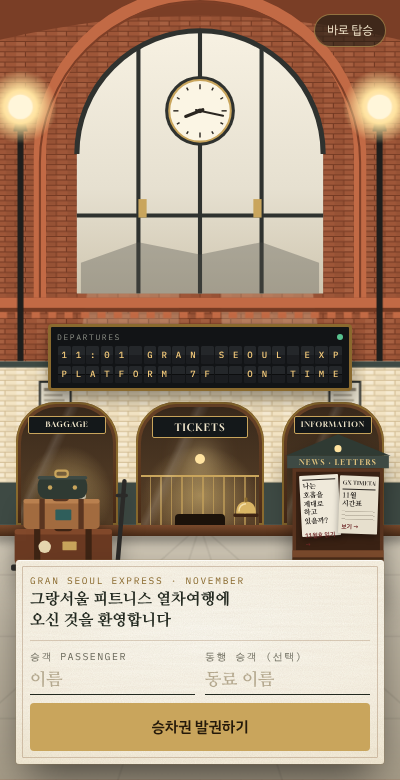
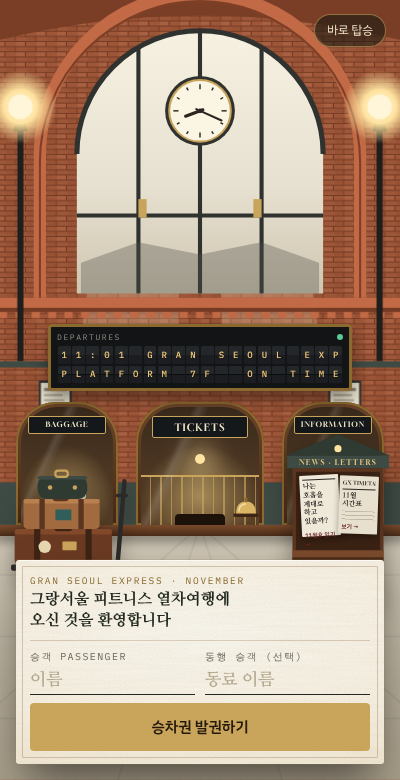
Match booth wall to upper red brick
Claude-Session: https://claude.ai/code/session_01944gX2svfc1a8cfr9gyaLp

diff --git a/index.html b/index.html
@@ -768,7 +768,6 @@ h1,h2,h3,h4,.st-card h2,.gate b{text-wrap:balance}
       <svg class="hall2" viewBox="0 0 400 760" preserveAspectRatio="xMidYMax slice" aria-hidden="true">
         <defs>
           <pattern id="brk" width="20" height="10" patternUnits="userSpaceOnUse"><rect width="20" height="10" fill="#9E5638"/><path d="M0 .5H20 M0 5.5H20 M10 0V5 M0 5V10 M20 5V10" stroke="#743A23" stroke-width="1"/><rect x="1" y="1" width="8" height="3.6" fill="rgba(255,200,150,.09)"/><rect x="11" y="6" width="8" height="3.6" fill="rgba(0,0,0,.05)"/></pattern>
-          <pattern id="brkIv" width="20" height="10" patternUnits="userSpaceOnUse"><rect width="20" height="10" fill="#F3E4C4"/><path d="M0 .5H20 M0 5.5H20 M10 0V5 M0 5V10 M20 5V10" stroke="#D2BC93" stroke-width="1"/><rect x="1" y="1" width="8" height="3.6" fill="rgba(255,255,255,.25)"/><rect x="11" y="6" width="8" height="3.6" fill="rgba(0,0,0,.05)"/></pattern>
           <pattern id="mul3" width="20" height="18" patternUnits="userSpaceOnUse" x="80"><rect width="20" height="18" fill="none" stroke="#3B3E3A" stroke-width="1.4"/></pattern>
           <linearGradient id="sky3" x1="0" y1="0" x2="0" y2="1"><stop offset="0" stop-color="#F7F1E2"/><stop offset=".6" stop-color="#E6E0D0"/><stop offset="1" stop-color="#CFC6B0"/></linearGradient>
           <linearGradient id="fl3" x1="0" y1="0" x2="0" y2="1"><stop offset="0" stop-color="#CFC7B6"/><stop offset="1" stop-color="#A69C88"/></linearGradient>
@@ -802,7 +801,7 @@ h1,h2,h3,h4,.st-card h2,.gate b{text-wrap:balance}
         <g><rect x="22" y="120" width="6" height="440" fill="#1F1E1C"/><path d="M18 128 h14 l-2 -8 h-10z" fill="#1F1E1C"/><circle cx="25" cy="104" r="36" fill="url(#glb)"/><circle cx="25" cy="104" r="12" fill="#FFF6DA"/><rect x="14" y="548" width="22" height="12" fill="#1F1E1C"/></g>
         <g><rect x="372" y="120" width="6" height="440" fill="#1F1E1C"/><path d="M368 128 h14 l-2 -8 h-10z" fill="#1F1E1C"/><circle cx="375" cy="104" r="36" fill="url(#glb)"/><circle cx="375" cy="104" r="12" fill="#FFF6DA"/><rect x="364" y="548" width="22" height="12" fill="#1F1E1C"/></g>
         <!-- 매표 부스 벽 (2번째 단) -->
-        <rect x="0" y="352" width="400" height="160" fill="url(#brkIv)"/>
+        <rect x="0" y="352" width="400" height="160" fill="url(#brk)"/>
         <rect x="0" y="352" width="400" height="6" fill="#3E4A44"/>
         <rect x="0" y="470" width="400" height="42" fill="#3E4A44"/>
         <!-- 게시판들 -->
